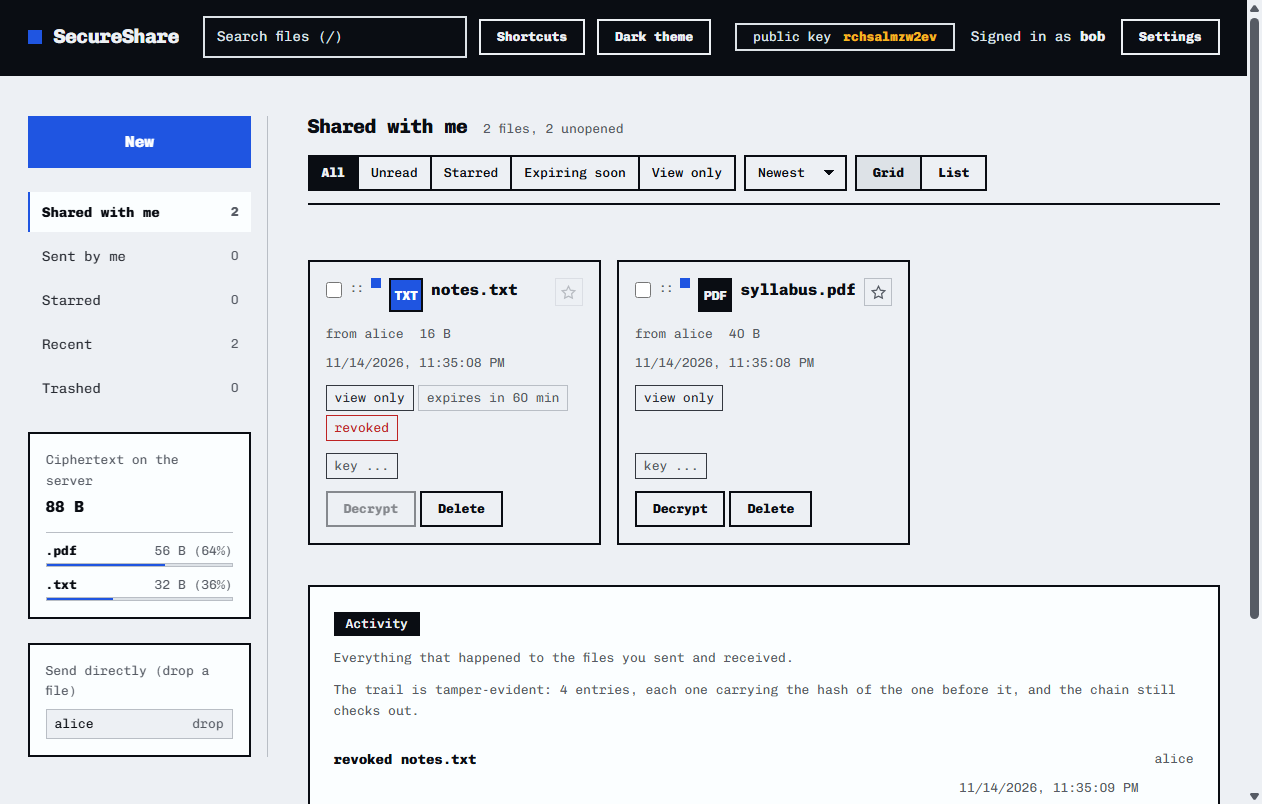
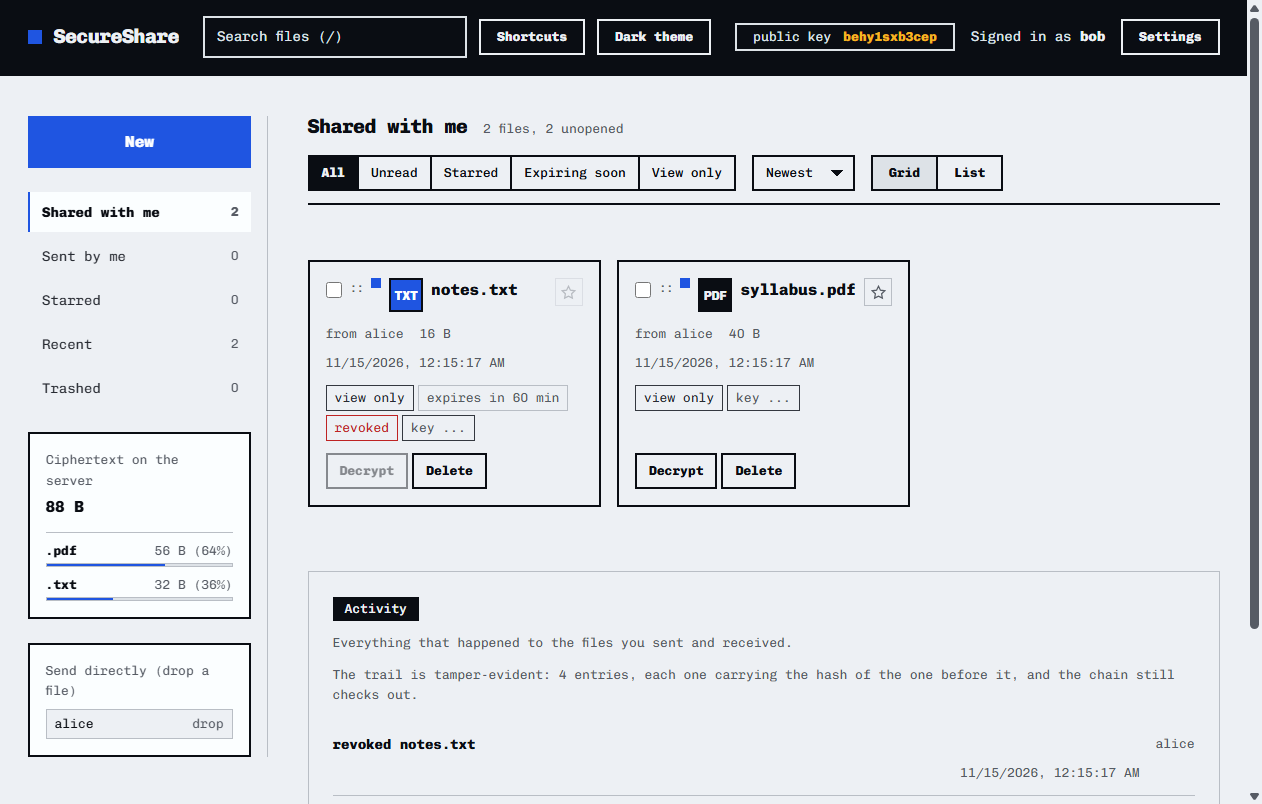
Lay the file grid out so one long name cannot stretch it
The layout pass was judged on the running app with four real files in it.
A long filename wrapped to nine lines and pulled its card past its
neighbours, so the grid was ragged and the three actions under a card
wrapped onto two rows. The name is now clamped to three lines with the
whole of it still on the title, the card is wider, the key chip moved up
beside the other facts, and the three actions sit on one row.

Around that: the toolbar's three groups are apart instead of one strip,
the audit log is a hairline rather than the heaviest box on the page, the
settings groups are separated by an ink rule, and the Done button is
quiet.

On a phone: the band is three rows and they are in DOM order, the rail
scrolls with a fade so "Starred" is not cut without a hint, the filter
row scrolls as one group with 48px targets, and the copy-the-phrase
action sits in the dialog's foot where scrolling cannot bury it.

diff --git a/public/style.css b/public/style.css
@@ -393,18 +393,29 @@ select.input {
   }
 
   .band__tools {
+    /* One row of tools, then the identity row. The DOM order is the visual
+       order, so the tab key follows what the eye does. */
     flex: 1 1 100%;
-    order: 2;
-    flex-wrap: wrap;
+    flex-wrap: nowrap;
+    gap: var(--space-xs);
     max-width: none;
   }
 
   .band__tools .search {
-    flex: 1 1 100%;
+    flex: 1 1 6rem;
+    min-width: 0;
+  }
+
+  .band__tools .btn {
+    white-space: nowrap;
+  }
+
+  /* A phone has no keyboard, so the shortcuts sheet has nothing to say. */
+  #shortcuts-button {
+    display: none;
   }
 
   .session {
-    order: 1;
     width: 100%;
     gap: var(--space-sm);
   }
@@ -490,6 +501,11 @@ select.input {
 .plate__figure {
   font-weight: 800;
   color: var(--color-accent-2);
+  /* A long key must not push the band off its row. */
+  max-width: 12rem;
+  overflow: hidden;
+  text-overflow: ellipsis;
+  white-space: nowrap;
 }
 
 /* On the ink band the plate cannot be an ink plate, so it becomes an outline. */
@@ -731,7 +747,8 @@ select.input {
 .main__tools {
   display: flex;
   align-items: center;
-  gap: var(--space-xs);
+  /* Three groups with three jobs: filter, sort, layout. Keep them apart. */
+  gap: var(--space-md);
   flex-wrap: wrap;
 }
 
@@ -815,7 +832,7 @@ select.input {
 
 .cards {
   display: grid;
-  grid-template-columns: repeat(auto-fill, minmax(16rem, 1fr));
+  grid-template-columns: repeat(auto-fill, minmax(18rem, 1fr));
   gap: var(--space-md);
   margin-top: var(--space-lg);
 }
@@ -1004,6 +1021,12 @@ html[data-theme="dark"] .file-chip--img {
   overflow-wrap: anywhere;
   min-width: 0;
   flex: 1 1 auto;
+  /* A long name must not stretch its card past its neighbours. */
+  display: -webkit-box;
+  -webkit-box-orient: vertical;
+  -webkit-line-clamp: 3;
+  line-clamp: 3;
+  overflow: hidden;
 }
 
 .card-file__name:hover {
@@ -1089,6 +1112,12 @@ html[data-theme="dark"] .card-file__star[aria-pressed="true"] svg {
   gap: var(--space-2xs);
 }
 
+/* Three actions under a card belong on one line. */
+.card-file__actions .btn {
+  padding-left: var(--space-sm);
+  padding-right: var(--space-sm);
+}
+
 .cards--list .card-file {
   display: grid;
   grid-template-columns: minmax(0, 1fr) auto auto;
@@ -1097,7 +1126,16 @@ html[data-theme="dark"] .card-file__star[aria-pressed="true"] svg {
     "meta badges foot";
   align-items: center;
   gap: var(--space-2xs) var(--space-md);
-  padding: var(--space-sm) var(--space-md);
+  /* A list view is dense rows, not the same boxes in a row. */
+  border: 0;
+  border-bottom: var(--rule-hair) solid var(--color-rule);
+  padding: var(--space-xs) 0;
+}
+
+/* One line in a row: the row carries the name, not the card. */
+.cards--list .card-file__name {
+  -webkit-line-clamp: 1;
+  line-clamp: 1;
 }
 
 .cards--list .card-file__top {
@@ -1149,7 +1187,8 @@ html[data-theme="dark"] .card-file__star[aria-pressed="true"] svg {
 .settings__block {
   margin-top: var(--space-lg);
   padding-top: var(--space-md);
-  border-top: var(--rule-hair) solid var(--color-rule);
+  /* A group must not be separated by the same line that separates its rows. */
+  border-top: var(--rule-bar) solid var(--color-ink);
 }
 
 .settings__block h4 {
@@ -1596,9 +1635,11 @@ html[data-theme="dark"] .card-file__star[aria-pressed="true"] svg {
 }
 
 .activity {
-  margin-top: var(--space-xl);
-  border: var(--rule-bar) solid var(--color-ink);
-  background: var(--color-paper-3);
+  /* The audit log is proof, not the subject. It must not out-weigh the
+     file list it sits under. */
+  margin-top: var(--space-2xl);
+  border: var(--rule-hair) solid var(--color-rule);
+  background: transparent;
   padding: var(--space-lg);
 }
 
@@ -1699,7 +1740,7 @@ html[data-theme="dark"] .card-file__star[aria-pressed="true"] svg {
 .preview-panel__body {
   display: grid;
   grid-template-columns: minmax(0, 1fr);
-  gap: var(--space-sm);
+  gap: var(--space-md);
   padding-top: var(--space-sm);
   overflow-y: auto;
   min-height: 0;
@@ -1707,11 +1748,19 @@ html[data-theme="dark"] .card-file__star[aria-pressed="true"] svg {
 
 .preview-panel__foot {
   display: flex;
+  align-items: center;
+  justify-content: space-between;
   gap: var(--space-xs);
   margin-top: var(--space-md);
   padding-top: var(--space-sm);
   border-top: var(--rule-bar) solid var(--color-rule);
   flex: none;
+}
+
+/* The dismiss control must not be the loudest thing in the dialog. */
+#settings-panel .preview-panel__foot .btn--primary {
+  background: transparent;
+  color: var(--color-ink);
 }
 
 .preview-panel__row {
@@ -2050,4 +2099,33 @@ html[data-theme="dark"] .card-file__star[aria-pressed="true"] svg {
   width: 100%;
   height: 100%;
   border: 0;
+}
+
+/* ---------- phone: the rail scrolls sideways, and says so ---------- */
+
+@media (max-width: 40rem) {
+  .rail__list {
+    scroll-snap-type: x proximity;
+    /* The row runs past the edge. Fade the cut so it reads as "more here",
+       not as a clipped word. */
+    -webkit-mask-image: linear-gradient(to right, currentColor calc(100% - 1.75rem), transparent);
+    mask-image: linear-gradient(to right, currentColor calc(100% - 1.75rem), transparent);
+  }
+
+  .rail__item {
+    scroll-snap-align: start;
+  }
+
+  /* The filter row is one group: it scrolls sideways instead of breaking the
+     group in two and orphaning the rarest filter. */
+  .filter-chips {
+    flex-wrap: nowrap;
+    overflow-x: auto;
+  }
+
+  /* The filter row is the most-tapped control on a phone. */
+  .filter-chip,
+  .toolbar-select {
+    min-height: var(--control-height);
+  }
 }

diff --git a/public/app.js b/public/app.js
@@ -416,6 +416,9 @@ async function uploadBackup() {
 function showPhrase(phrase) {
   if (!phrase) return;
   $('phrase-panel').classList.remove('hidden');
+  // The copy action lives in the dialog's foot, so it stays reachable however
+  // far the phrase is scrolled.
+  $('phrase-actions').classList.remove('hidden');
   $('phrase-words').textContent = phrase;
 }
 
@@ -1201,7 +1204,9 @@ function renderCards(files, direction) {
     } else if (view !== 'trashed') {
       const shareBtn = document.createElement('button');
       shareBtn.type = 'button';
-      shareBtn.className = 'btn btn--primary btn--small';
+      // The rail's New button is the one primary action. Two saturated
+      // buttons for the same job split the call to action.
+      shareBtn.className = 'btn btn--small';
       shareBtn.textContent = 'Share a file';
       shareBtn.addEventListener('click', () => openNewShareFor(null));
       empty.appendChild(shareBtn);
@@ -1289,6 +1294,9 @@ function renderCards(files, direction) {
     name.type = 'button';
     name.className = 'card-file__name';
     name.textContent = file.filename;
+    // The name is clamped to three lines, so the whole of it must still be
+    // reachable.
+    name.title = file.filename;
     name.setAttribute('aria-label', `Preview ${file.filename}`);
     name.addEventListener('click', () => openPreview(file));
     top.appendChild(name);
@@ -1357,7 +1365,9 @@ function renderCards(files, direction) {
     key.title = 'Copy the key fingerprint this file is encrypted to';
     key.setAttribute('aria-label', `Copy key fingerprint for ${file.filename}`);
     key.addEventListener('click', () => copyKeyFor(file, directionKey, key));
-    foot.appendChild(key);
+    // The key chip is a fact about the file, not an action on it. It belongs
+    // with the other facts, so the foot keeps only the actions.
+    badges.appendChild(key);
 
     const actions = document.createElement('div');
     actions.className = 'card-file__actions';
@@ -2163,6 +2173,7 @@ function bindEvents() {
 
   $('phrase-close').addEventListener('click', () => {
     $('phrase-panel').classList.add('hidden');
+    $('phrase-actions').classList.add('hidden');
   });
 
   $('phrase-open').addEventListener('click', () => {
@@ -2581,6 +2592,7 @@ function bindEvents() {
       if (event.key === 'Escape') {
         event.preventDefault();
         $('phrase-panel').classList.add('hidden');
+        $('phrase-actions').classList.add('hidden');
       }
       return;
     }

diff --git a/public/index.html b/public/index.html
@@ -616,10 +616,6 @@ const passwordWrappedKey = (await KeyGuard.wrapWithPassword(aes, password)).wrap
         </p>
         <div class="phrase hidden" id="phrase-panel">
           <p class="phrase__words" id="phrase-words"></p>
-          <div class="phrase__actions">
-            <button id="phrase-copy" class="btn btn--small" type="button">Copy the phrase</button>
-            <button id="phrase-close" class="btn btn--small" type="button">Hide</button>
-          </div>
         </div>
         <button id="phrase-open" class="btn btn--small" type="button">Show the recovery phrase</button>
       </div>
@@ -665,6 +661,10 @@ const passwordWrappedKey = (await KeyGuard.wrapWithPassword(aes, password)).wrap
       </div>
     </div>
     <div class="preview-panel__foot">
+      <div class="phrase__actions hidden" id="phrase-actions">
+        <button id="phrase-copy" class="btn btn--small" type="button">Copy the phrase</button>
+        <button id="phrase-close" class="btn btn--small" type="button">Hide</button>
+      </div>
       <button id="settings-done" class="btn btn--primary btn--small" type="button">Done</button>
     </div>
   </div>

diff --git a/docs/reviews/change-inventory.md b/docs/reviews/change-inventory.md
@@ -176,3 +176,8 @@
 |---|---|---|---|
 | `public/style.css` | The dialog caps its height and its body scrolls; the rows stack on a narrow screen; the twelve words wrap; the code the phone reads sits beside the key; the dark theme's muted grey raised to pass the body text mark; the phone header wraps to three rows and drops the public key plate, which is in the settings dialog | The settings dialog ran off the edge of a phone and off the top of a desktop window, and the phone header took five rows | The app was captured at 1440x900 and 390x844 before and after; the detector is clean; the design gate passes |
 | `public/index.html` | The QR and the key put in one row, in the settings dialog and in the sign-in enrolment | The code was under a wall of text and the dialog could not scroll it into view | The browser suite finds the drawn code |
+
+|---|---|---|---|
+| `public/style.css` | The card name is clamped to three lines and the card is 18rem wide; the list view is dense rows with a hairline, not boxes in a row; the key chip sits with the other facts so the three actions fit on one line; the toolbar's three groups are 16px apart; the audit log is a hairline with a transparent ground and a 64px gap; the settings groups are separated by an ink rule, not the row hairline; the copy-the-phrase action moved to the dialog foot; the Done button is quiet; the public key is clipped to one line; on a phone the band is three rows in DOM order, the rail scrolls with a fade, the filter row scrolls as one group and the filter targets are 48px | One filename stretched its card to nine lines and the grid with it; the actions wrapped; the toolbar was one strip; the audit log out-weighed the files; the phone band was four rows in the wrong order; "Starred" was cut with no hint; the phrase's copy button sat under the fold | The app was captured at 1440x900 and 390x844 with four files in it and read again afterwards; the card foot was measured in the browser at one row; the design gate is clean; the interface detector on the running page finds nothing |
+| `public/index.html` | The copy and hide actions for the recovery phrase moved into the settings dialog's foot | The action was inside the scrolling body, so on a phone it sat under the fold | The browser suite opens the phrase and the phrase panel still hides on Escape |
+| `public/app.js` | The key chip is appended to the badges row instead of the foot; the file name carries its full text as a title; showing and hiding the recovery phrase also shows and hides the action pair; the empty state's share button is no longer the primary button | The foot could not hold the key chip and three actions; a clamped name needs the whole name reachable; the action pair moved out of the phrase panel, so it needs its own show and hide; the rail's New button is the one primary action | The browser suite passes all checks, including the phrase, the cards and the second factor |

diff --git a/docs/reviews/decision-log.md b/docs/reviews/decision-log.md
@@ -242,3 +242,31 @@
   changed files or on the running page, and the design gate is clean.
 - Consequence: the settings dialog fits the screen it ships on, and the header on a phone is
   three rows instead of five.
+
+## D19 - The layout pass, judged on the rendered pages
+
+- Prompt: "/impeccable layout polish", and "continue doing".
+- Decision: the layout pass is done against the running app with four real files in it, not
+  against an empty screen. The defects that the source could not show were found by looking:
+  a long filename wrapped to nine lines and stretched its card past its neighbours, the three
+  actions under a card wrapped onto two rows, the file grid and the audit log below it carried
+  the same weight, the toolbar read as one strip of seven controls, the phone band took four
+  rows and showed them in the opposite order to the DOM, the phone rail cut "Starred" mid
+  word with no hint that it scrolled, and the phone filter row broke its group in two. The
+  card name is now clamped to three lines, the card is wider, the three actions sit on one
+  row, the key chip moved up beside the other facts, the audit log is a hairline, the
+  toolbar's three groups are apart, the phone band is three rows in DOM order, the rail
+  scrolls with a fade, the filter row scrolls as one group, and the copy-the-phrase action
+  sits in the dialog's foot so it can never be scrolled away from.
+- Alternatives considered: (a) the mechanical detector alone, which reads the files and
+  cannot see a card stretched by a filename; (b) a sticky action bar for the recovery
+  phrase, which measured as covering the last two rows of the twelve words; (c) the
+  incumbent rules: the card is a card and the toolbar is a toolbar.
+- Evidence: the app was captured at 1440x900 and 390x844 with four files in it, and the
+  captures were read again afterwards. The card foot was measured in the browser: three
+  buttons, 240px in a 257px row, one row. The phrase box was measured too: the words sit
+  in the scrolling body and the action is in the foot, 72px below the scroll edge. The
+  server suite, the browser suite, the live checks, the design gate and the interface
+  detector on the running page all pass.
+- Consequence: the file grid is even, the reading order is the DOM order, and the highest
+  stakes control in the settings dialog cannot be scrolled out of reach.
